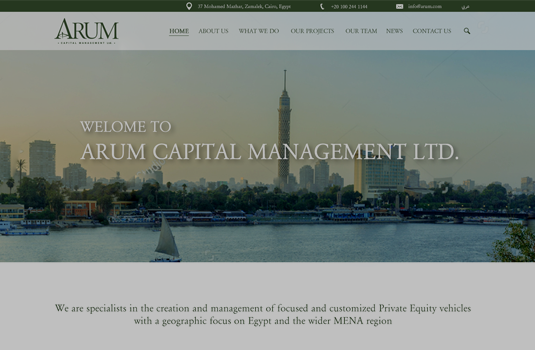
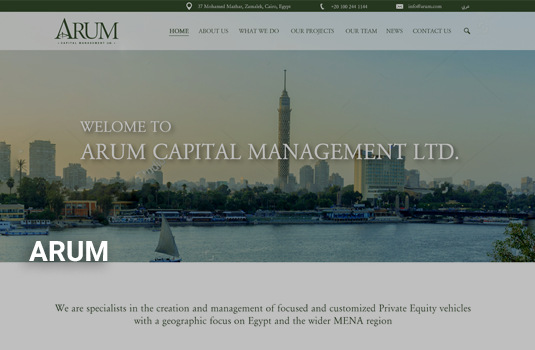
updating home page font slider and our work section

Changed region(s): [[0.0299, 0.6857, 0.2093, 0.7714]]

diff --git a/src/style/home.scss b/src/style/home.scss
@@ -465,25 +465,26 @@ form.newsletterForm button:hover {
     
     .top-left{
         color: $primary_color;
-        font-size: 2rem !important;
+        font-size: 1.5rem !important;
         padding-top: 1rem;
     }
 
     .website-name{
         color: $primary_color;
-        font-size: 3rem !important;
+        font-size: 2rem !important;
     }
 
     .website-link, .website-link-bottom, .website-desc-bottom{
         color: $primary_color;
-        font-size: 3rem !important;
+        font-size: 1.5rem !important;
+        font-weight: $mainImage-font-weight;
     }
 
     .top-center{
         color: $primary_color;
         font-size: 1.5rem !important;
         font-weight: $mainImage-font-weight;
-        padding-top: 1.2rem;
+        padding-top: 1rem;
     }
 
     .bottom-center{
@@ -620,7 +621,9 @@ form.newsletterForm button:hover {
         margin-top: 3rem !important;
     }
 
-
+    .carousel-indicators, .carousel-control-prev, .carousel-control-next{
+        display: none;
+    }
 }
 
 @media screen and (min-width: 1200px) {
@@ -649,10 +652,6 @@ form.newsletterForm button:hover {
         background-color: $hovering_color;
     }
 
-    .carousel-indicators, .carousel-control-prev, .carousel-control-next{
-        display: none;
-    }
-
     /* Make the image fully responsive */
     .carousel-inner img {
         width: 100%;
@@ -671,12 +670,10 @@ form.newsletterForm button:hover {
     }
 
     .top-left{
-        font-size: 2.3rem !important;
         padding-top: 0;
     }
     
     .website-name{
-        font-size: 2.3rem !important;
         font-weight: 600;
         padding-top: 1rem;
     }
@@ -702,7 +699,7 @@ form.newsletterForm button:hover {
     .bottom-center{
         font-size: 1.5rem !important;
         padding-left: 1rem;
-        padding-top: 1.2rem;
+        padding-top: 1rem;
     }
 
     .bottom{

diff --git a/build/style/home.css b/build/style/home.css
@@ -469,25 +469,26 @@ form.newsletterForm button:hover {
 
   .top-left {
     color: #2e2e2e;
-    font-size: 2rem !important;
+    font-size: 1.5rem !important;
     padding-top: 1rem;
   }
 
   .website-name {
     color: #2e2e2e;
-    font-size: 3rem !important;
+    font-size: 2rem !important;
   }
 
   .website-link, .website-link-bottom, .website-desc-bottom {
     color: #2e2e2e;
-    font-size: 3rem !important;
+    font-size: 1.5rem !important;
+    font-weight: 300;
   }
 
   .top-center {
     color: #2e2e2e;
     font-size: 1.5rem !important;
     font-weight: 300;
-    padding-top: 1.2rem;
+    padding-top: 1rem;
   }
 
   .bottom-center {
@@ -624,6 +625,10 @@ form.newsletterForm button:hover {
   .inTouchFirstRow {
     margin-top: 3rem !important;
   }
+
+  .carousel-indicators, .carousel-control-prev, .carousel-control-next {
+    display: none;
+  }
 }
 @media screen and (min-width: 1200px) {
   .mobileTablet {
@@ -651,10 +656,6 @@ form.newsletterForm button:hover {
     background-color: #3d6fc2;
   }
 
-  .carousel-indicators, .carousel-control-prev, .carousel-control-next {
-    display: none;
-  }
-
   /* Make the image fully responsive */
   .carousel-inner img {
     width: 100%;
@@ -672,12 +673,10 @@ form.newsletterForm button:hover {
   }
 
   .top-left {
-    font-size: 2.3rem !important;
     padding-top: 0;
   }
 
   .website-name {
-    font-size: 2.3rem !important;
     font-weight: 600;
     padding-top: 1rem;
   }
@@ -703,7 +702,7 @@ form.newsletterForm button:hover {
   .bottom-center {
     font-size: 1.5rem !important;
     padding-left: 1rem;
-    padding-top: 1.2rem;
+    padding-top: 1rem;
   }
 
   .bottom {
